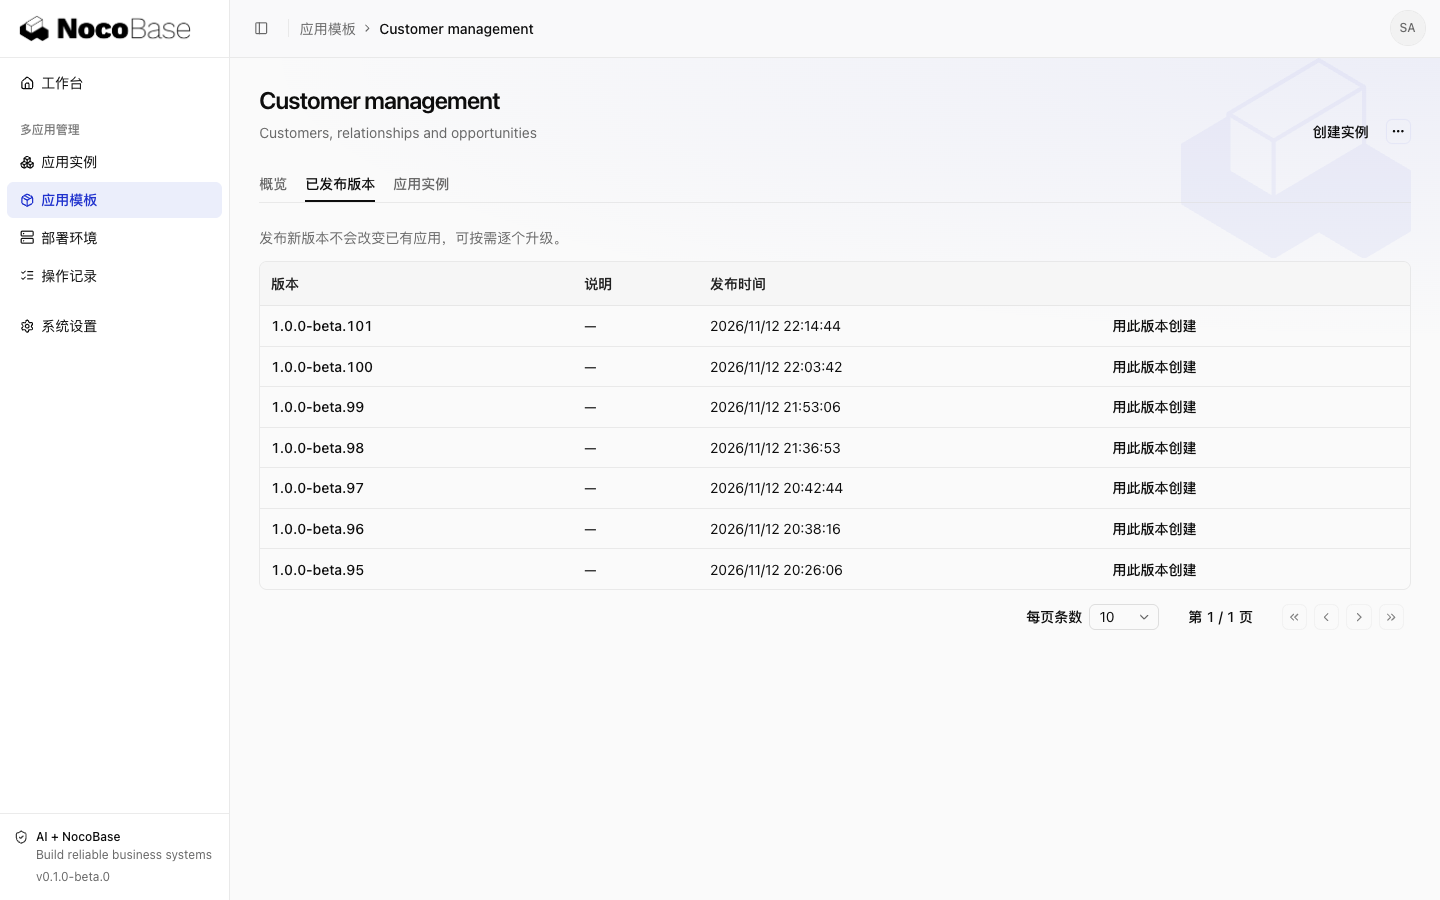
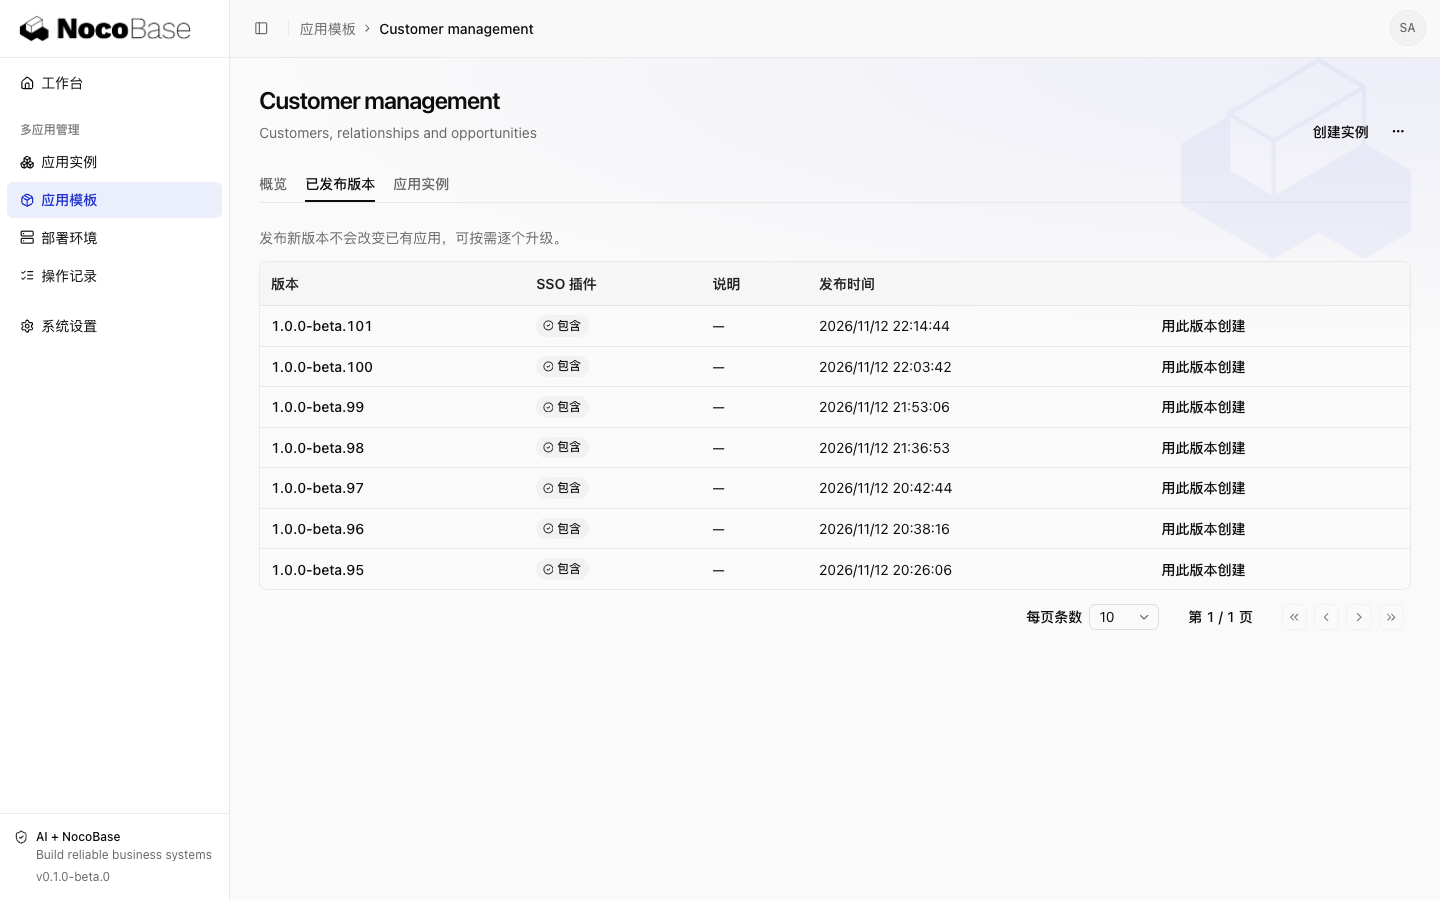
docs(doc): explain template version SSO plugin tags

diff --git a/doc/content/ja-JP/core/architecture/multi-app/templates.md b/doc/content/ja-JP/core/architecture/multi-app/templates.md
@@ -57,6 +57,9 @@ pnpm build --tar
 
 ![公開済みバージョンから新しいアプリインスタンスを作成する](/assets/core/multi-app/template-versions.png)
 
+> [!TIP]
+> 「SSO plugin」が「included」の場合、そのバージョンのデプロイパッケージにはプラットフォーム SSO プラグインが含まれており、シングルサインオンと連携できます。
+
 業務機能を更新するときは、元の子アプリのプロジェクトでコードを変更し、`package.json` のバージョン番号を更新してから、再度ビルド、アップロード、公開を行います。アプリのパッケージ名は変えず、公開済みバージョンを上書きしないでください。
 
 新しいバージョンを公開しても、既存インスタンスは変更されません。各インスタンスは元のバージョンを使い続けることも、管理者が[個別にアップグレード](management.md#インスタンスをアップグレードアーカイブ復元する)することもできます。

diff --git a/doc/content/core/architecture/multi-app/templates.md b/doc/content/core/architecture/multi-app/templates.md
@@ -57,6 +57,9 @@ Once published, the version appears under **Published versions**. Select a versi
 
 ![Published versions can be used to create application instances](/assets/core/multi-app/template-versions.png)
 
+> [!TIP]
+> An **included** tag under **SSO plugin** means this version's deployment archive includes the Platform SSO plugin and supports single sign-on integration.
+
 To update business features, change the code in the original child project, update the version in `package.json`, and build, upload, and publish again. Keep the application package name unchanged, and do not overwrite published versions.
 
 Publishing a new version does not change existing instances. They can stay on their current version or be [upgraded individually](management.md#upgrade-archive-and-restore-instances) by an administrator.

diff --git a/doc/content/zh-CN/core/architecture/multi-app/templates.md b/doc/content/zh-CN/core/architecture/multi-app/templates.md
@@ -57,6 +57,9 @@ pnpm build --tar
 
 ![已发布版本可用于创建新的应用实例](/assets/core/multi-app/zh-CN/template-versions.png)
 
+> [!TIP]
+> “SSO 插件”显示“包含”，表示该版本的部署包已包含平台 SSO 插件，可接入统一登录。
+
 更新业务功能时，在原子应用项目中修改代码、更新 `package.json` 的版本号，再重新构建、上传并发布。保持应用包名不变，不覆盖已经发布的版本。
 
 发布新版本不会改变现有实例。各实例可以继续使用原版本，也可以由管理员[分别升级](management.md#升级归档与恢复)。
